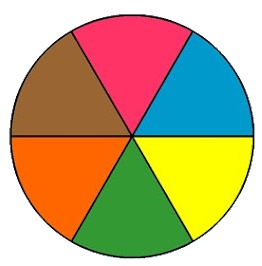
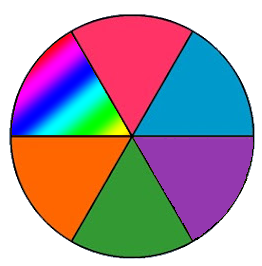
Fix merge errors

Changed region(s): [[0.5191, 0.5113, 0.9771, 0.9023], [0.0305, 0.1203, 0.4885, 0.5113]]

diff --git a/streamlit_functions.py b/streamlit_functions.py
@@ -37,17 +37,17 @@ def display_game_state_sidebar() -> None:
 def get_camemberts(player: Player):
     result = []
     if player.camembert_ACTUALITES_IA:
-        result.append("pictures/pink_cam.png")
+        result.append("pictures/violet_cam.png")
     if player.camembert_BASES_DE_DONNEES:
         result.append("pictures/orange_cam.png")
     if player.camembert_DEVOPS:
-        result.append("pictures/yellow_cam.png")
+        result.append("pictures/red_cam.png")
     if player.camembert_LANGAGES_DE_PROGRAMMATION:
         result.append("pictures/green_cam.png")
     if player.camembert_LIGNE_DE_COMMANDES:
         result.append("pictures/blue_cam.png")
     if player.camembert_TECH_IA:
-        result.append("pictures/brown_cam.png")
+        result.append("pictures/rainbow_cam.png")
     
     if len(result) == 6:
         return ["pictures/full_wheel.png"]

diff --git a/controller.py b/controller.py
@@ -2,7 +2,7 @@ import random
 from themes import theme_choice
 from enums import Themes
 from database_utils import DatabaseUtils
-from positions.positions import create_all_position, Position, create_center_position
+from positions import create_all_position, Position, create_center_position
 from playermodels import Player
 from enums import Themes
 

diff --git a/positions.py b/positions.py
@@ -20,7 +20,7 @@ class Position:
             return self.id < other
         return False
 
-    def move(self, dice, direction):
+    def move(self, dice, clockwork_dir):
         """
         return id of the next position
         """
